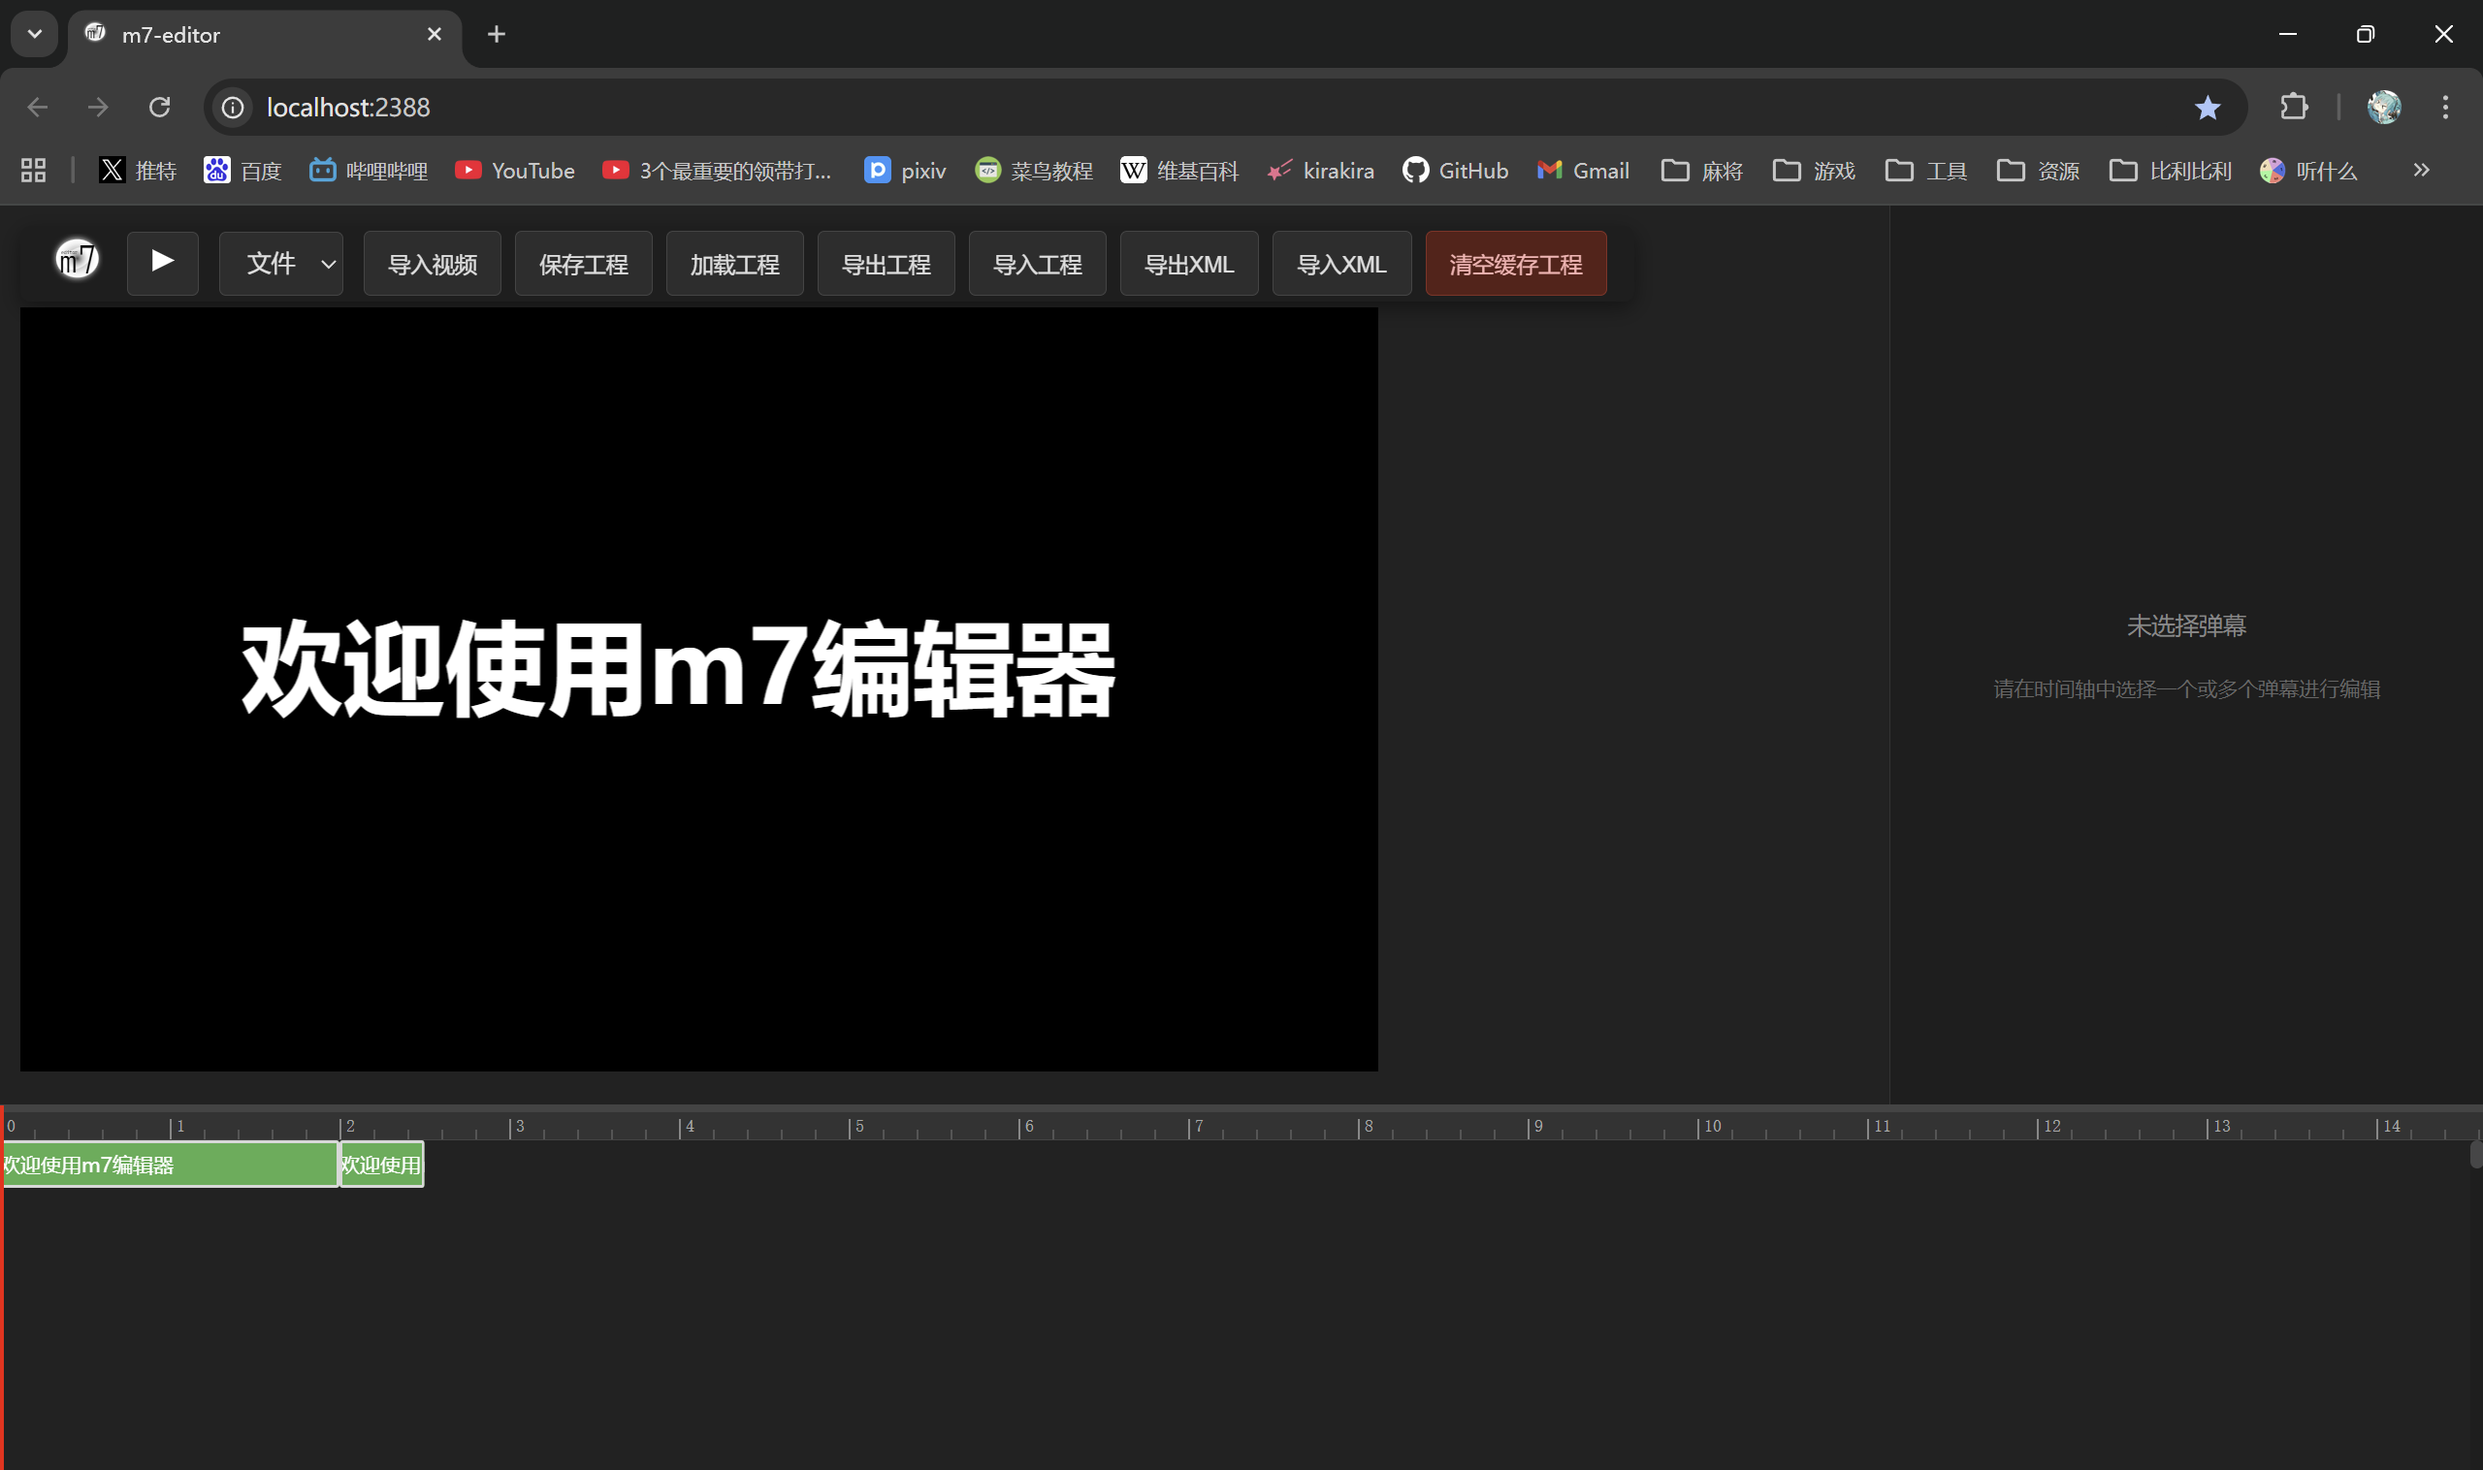
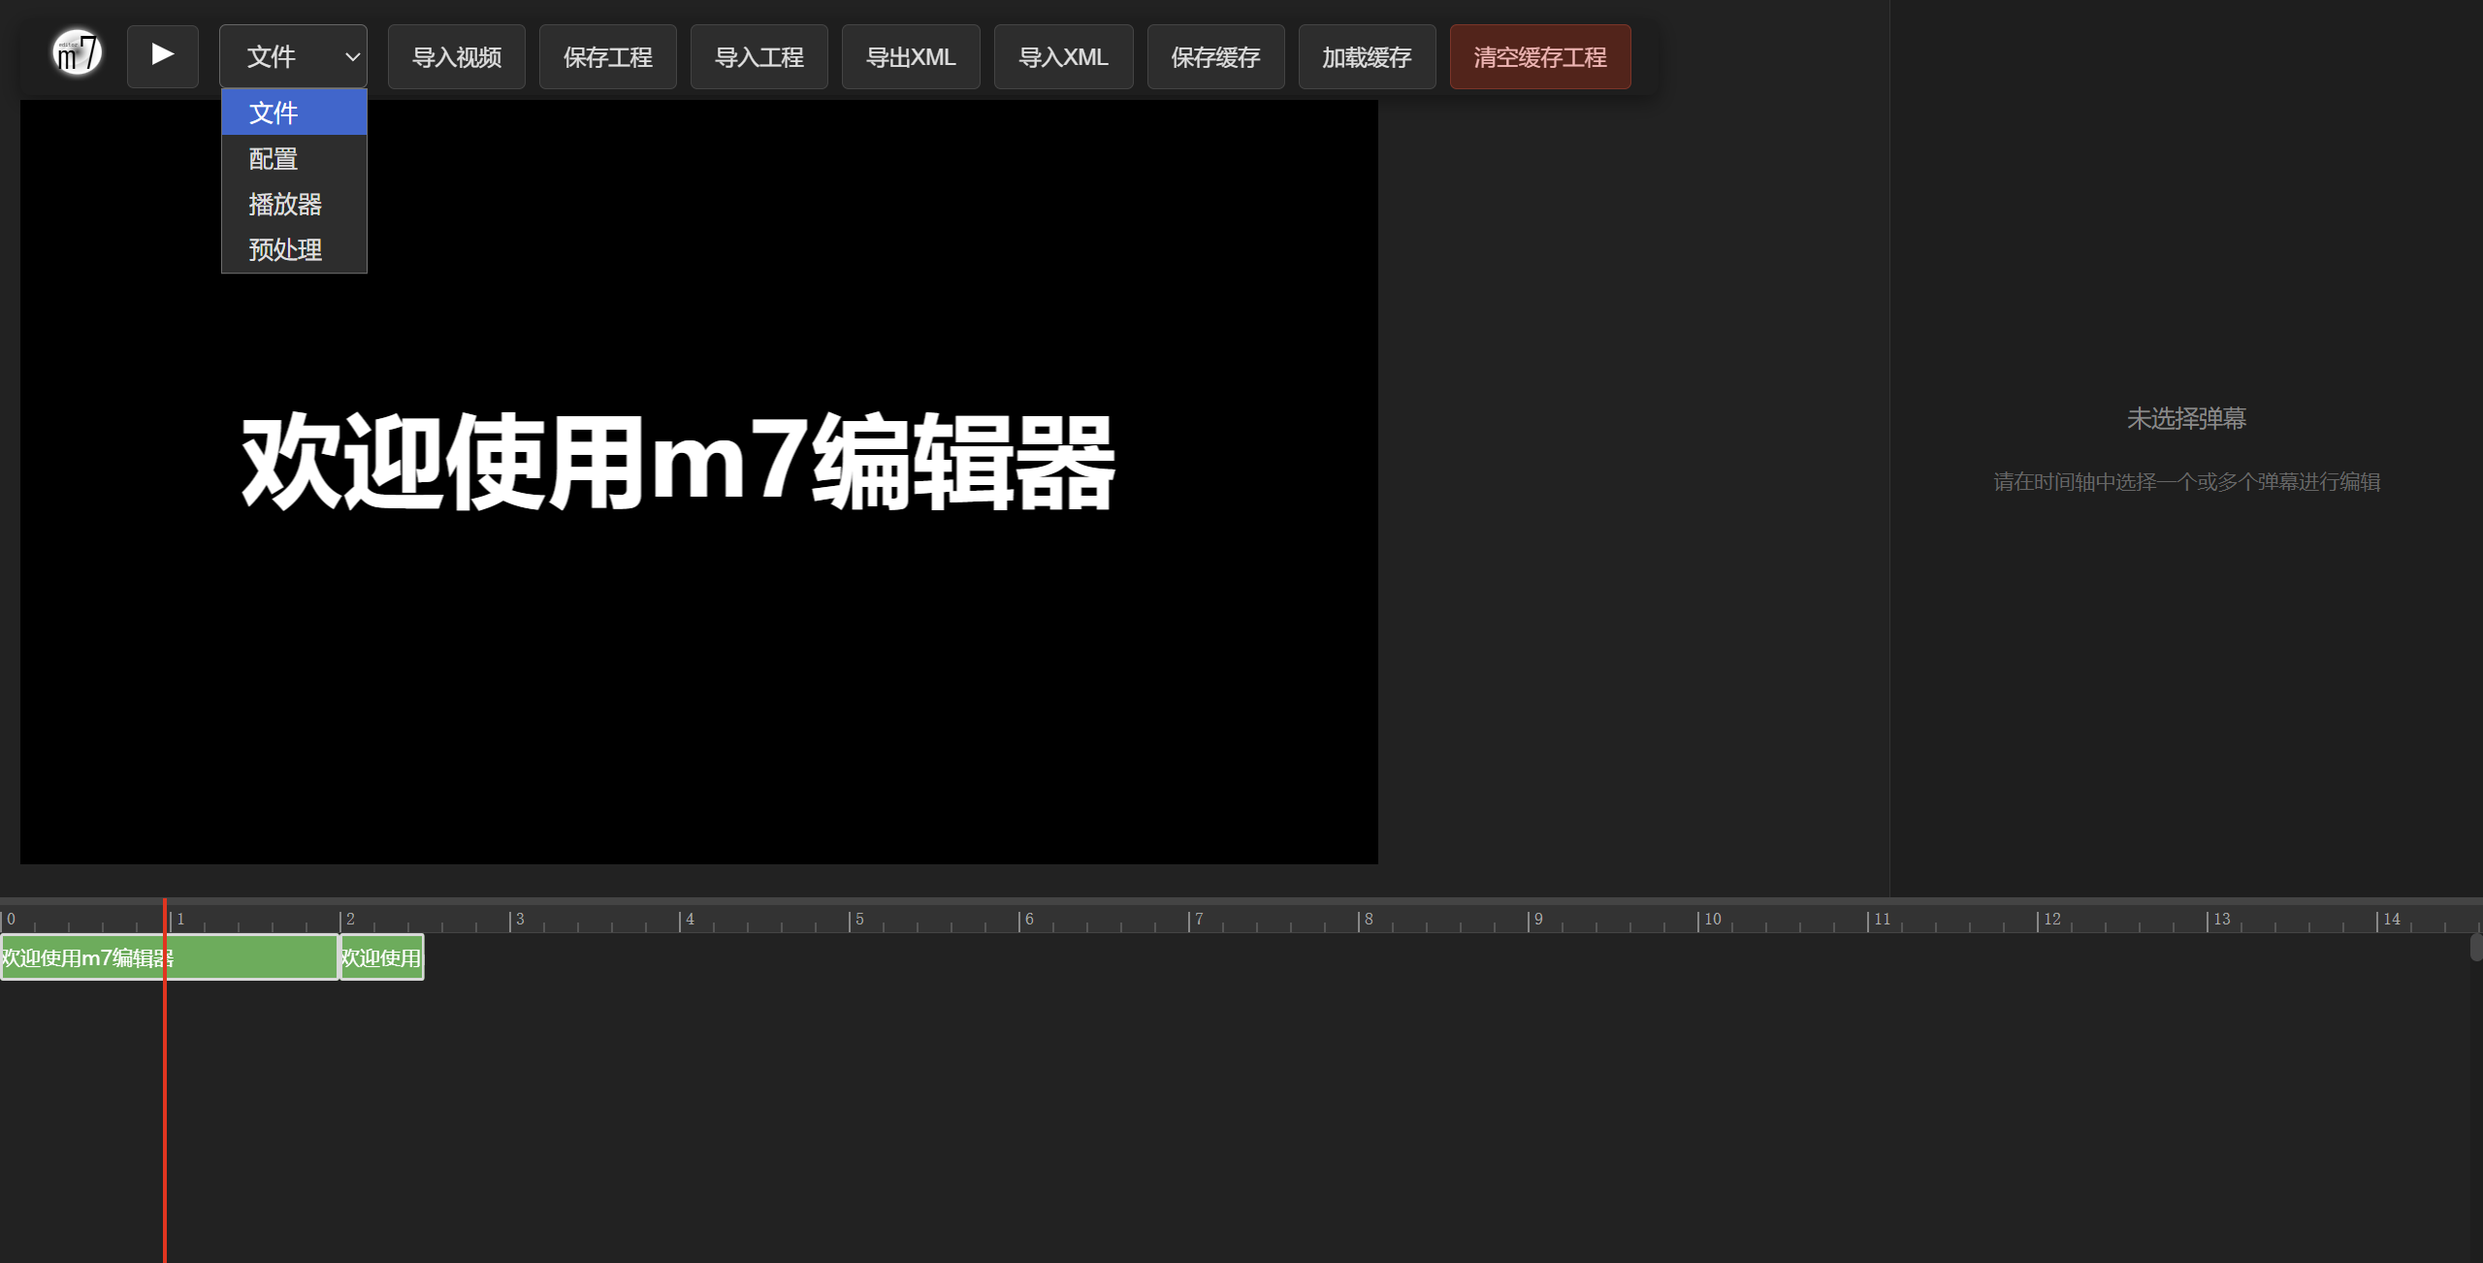
v0.3.0
改变选框逻辑

diff --git a/src/components/timeline/timeline.vue b/src/components/timeline/timeline.vue
@@ -62,14 +62,9 @@
       
       <!-- 框选矩形 -->
       <div
-        v-if="selectionBox.visible"
+        v-if="selectionBoxStyle"
         class="selection-box"
-        :style="{
-          left: Math.min(selectionBox.startX, selectionBox.endX) + 'px',
-          top: Math.min(selectionBox.startY, selectionBox.endY) + 'px',
-          width: Math.abs(selectionBox.endX - selectionBox.startX) + 'px',
-          height: Math.abs(selectionBox.endY - selectionBox.startY) + 'px'
-        }"
+        :style="selectionBoxStyle"
       />
     </div>
   </div>
@@ -92,6 +87,7 @@ const offset = ref(0)
 const containerWidth = ref(800)
 
 const rowHeight = 30
+const RULER_HEIGHT = 20
 
 // ---------- 纵向虚拟滚动相关 ----------
 const tracksScrollTop = ref(0)
@@ -215,8 +211,8 @@ function handlePan(e: KeyboardEvent) {
     // Ctrl+Alt: 移动30000ms (30秒)
     panDistance = 30000
   } else if (isCtrl && !isAlt && (e.key === 'ArrowLeft' || e.key === 'ArrowRight')) {
-    // Ctrl: 移动10000ms
-    panDistance = 10000
+    // Ctrl: 移动视图的一半
+    panDistance = containerWidth.value * 0.5 / scale.value
   } else if (!isCtrl && !isAlt && (e.key === 'ArrowLeft' || e.key === 'ArrowRight')) {
     // 普通方向键: 移动播放头到最近的stepMs的整数倍位置（排除当前位置）
     const stepMs = store.playheadStepMs
@@ -564,17 +560,18 @@ function onMouseDown(e: MouseEvent) {
   if (isCtrlPressed && !isOnBlock && !isOnHandle) {
     // 进入框选模式
     isBoxSelectingMode.value = true
-    const rect = (e.currentTarget as HTMLElement).getBoundingClientRect()
-    const tracksElement = tracksRef.value
-    if (!tracksElement) return
-    const scrollTop = tracksElement.scrollTop
-    
+    lastAutoScrollAt = 0
+    const anchorTime = getTimeFromClientX(e.clientX)
+    const anchorLayer = getLayerFromClientY(e.clientY)
+
     selectionBox.value = {
       visible: true,
-      startX: e.clientX - rect.left,
-      startY: e.clientY - rect.top - 20 + scrollTop, // 考虑ruler高度(20px)和scrollTop
-      endX: e.clientX - rect.left,
-      endY: e.clientY - rect.top - 20 + scrollTop
+      anchorTime,
+      anchorLayer,
+      anchorClientX: e.clientX,
+      anchorClientY: e.clientY,
+      pointerClientX: e.clientX,
+      pointerClientY: e.clientY
     }
     return
   }
@@ -660,7 +657,7 @@ function animateOffsetTo(targetOffset: number) {
 }
 
 function maybeAutoScrollDuringDrag(e: MouseEvent) {
-  if (!dragMode.value || !timelineRef.value || !tracksRef.value) {
+  if ((!dragMode.value && !isBoxSelectingMode.value) || !timelineRef.value || !tracksRef.value) {
     return
   }
 
@@ -737,8 +734,8 @@ function onBlockMouseDown(e: MouseEvent, d: any) {
     dragOffsetX.value = e.clientX - timelineRect.left - activeStartTimeX
     dragOffsetY.value = e.clientY - timelineRect.top
     
-    // dragStartLayer应该考虑ruler高度(20px)和scrollTop
-    dragStartLayer.value = Math.floor((e.clientY - timelineRect.top - 20 + scrollTop) / rowHeight)
+    // dragStartLayer应该考虑ruler高度和scrollTop
+    dragStartLayer.value = Math.floor((e.clientY - timelineRect.top - RULER_HEIGHT + scrollTop) / rowHeight)
 
     window.addEventListener('mousemove', onGlobalMouseMove)
     window.addEventListener('mouseup', onGlobalMouseUp)
@@ -804,21 +801,91 @@ const dragStartLayer = ref(0)
 // 框选相关
 interface SelectionBox {
   visible: boolean
-  startX: number
-  startY: number
-  endX: number
-  endY: number
+  anchorTime: number
+  anchorLayer: number
+  anchorClientX: number
+  anchorClientY: number
+  pointerClientX: number
+  pointerClientY: number
 }
 
 const selectionBox = ref<SelectionBox>({
   visible: false,
-  startX: 0,
-  startY: 0,
-  endX: 0,
-  endY: 0
+  anchorTime: 0,
+  anchorLayer: 0,
+  anchorClientX: 0,
+  anchorClientY: 0,
+  pointerClientX: 0,
+  pointerClientY: 0
 })
 
+// 框选相关
 const isBoxSelectingMode = ref(false)
+
+function clampLayer(layer: number) {
+  return Math.max(0, Math.min(store.maxLayers - 1, layer))
+}
+
+function getTimeFromClientX(clientX: number) {
+  const rect = timelineRef.value?.getBoundingClientRect()
+  if (!rect) {
+    return 0
+  }
+
+  const x = clientX - rect.left
+  return roundTime(Math.max(0, x / scale.value + offset.value))
+}
+
+function getLayerFromClientY(clientY: number) {
+  const tracksRect = tracksRef.value?.getBoundingClientRect()
+  if (!tracksRect) {
+    return 0
+  }
+
+  const y = clientY - tracksRect.top + tracksScrollTop.value
+  return clampLayer(Math.floor(y / rowHeight))
+}
+
+const selectionRange = computed(() => {
+  if (!selectionBox.value.visible) {
+    return null
+  }
+
+  const pointerTime = getTimeFromClientX(selectionBox.value.pointerClientX)
+  const pointerLayer = getLayerFromClientY(selectionBox.value.pointerClientY)
+
+  return {
+    minTime: Math.min(selectionBox.value.anchorTime, pointerTime),
+    maxTime: Math.max(selectionBox.value.anchorTime, pointerTime),
+    minLayer: Math.min(selectionBox.value.anchorLayer, pointerLayer),
+    maxLayer: Math.max(selectionBox.value.anchorLayer, pointerLayer)
+  }
+})
+
+const selectionBoxStyle = computed(() => {
+  if (!selectionRange.value) {
+    return null
+  }
+
+  return {
+    left: (selectionRange.value.minTime - offset.value) * scale.value + 'px',
+    top: selectionRange.value.minLayer * rowHeight + 'px',
+    width: (selectionRange.value.maxTime - selectionRange.value.minTime) * scale.value + 'px',
+    height: (selectionRange.value.maxLayer - selectionRange.value.minLayer + 1) * rowHeight + 'px'
+  }
+})
+
+function resetSelectionBox() {
+  selectionBox.value = {
+    visible: false,
+    anchorTime: 0,
+    anchorLayer: 0,
+    anchorClientX: 0,
+    anchorClientY: 0,
+    pointerClientX: 0,
+    pointerClientY: 0
+  }
+}
 
 function recordDragInitialStates() {
   dragInitialStates.value.clear()
@@ -952,13 +1019,9 @@ function snapMoveStartTime(startTime: number, duration: number) {
 function onMouseMove(e: MouseEvent) {
   // 框选模式
   if (isBoxSelectingMode.value) {
-    const rect = timelineRef.value?.getBoundingClientRect()
-    const tracksElement = tracksRef.value
-    if (!rect || !tracksElement) return
-    const scrollTop = tracksElement.scrollTop
-    
-    selectionBox.value.endX = e.clientX - rect.left
-    selectionBox.value.endY = e.clientY - rect.top - 20 + scrollTop // 考虑ruler高度(20px)和scrollTop
+    selectionBox.value.pointerClientX = e.clientX
+    selectionBox.value.pointerClientY = e.clientY
+    maybeAutoScrollDuringDrag(e)
     return
   }
   
@@ -979,10 +1042,10 @@ function onMouseMove(e: MouseEvent) {
   const timelineRect = currentTimeline.getBoundingClientRect()
   
   const x = e.clientX - timelineRect.left
-  const y = e.clientY - timelineRect.top - 20 + scrollTop // -20是ruler的高度
+  const y = e.clientY - timelineRect.top - RULER_HEIGHT + scrollTop // ruler高度补偿
 
   const rawTime = x / scale.value + offset.value
-  const layer = Math.max(0, Math.min(store.maxLayers - 1, Math.floor(y / rowHeight)))
+  const layer = clampLayer(Math.floor(y / rowHeight))
 
   if (dragMode.value === 'move') {
     // 批量拖动：基于activeBlockId计算delta，然后应用到所有选中弹幕
@@ -1074,33 +1137,29 @@ function onMouseUp() {
   // 框选模式处理
   if (isBoxSelectingMode.value) {
     isBoxSelectingMode.value = false
-    
-    // 计算选择框的边界
-    const minX = Math.min(selectionBox.value.startX, selectionBox.value.endX)
-    const maxX = Math.max(selectionBox.value.startX, selectionBox.value.endX)
-    const minY = Math.min(selectionBox.value.startY, selectionBox.value.endY)
-    const maxY = Math.max(selectionBox.value.startY, selectionBox.value.endY)
+    const range = selectionRange.value
     
     // 找出被选中的弹幕
     const selectedInBox: string[] = []
-    store.danmakus.forEach((d: any) => {
-      const blockLeft = (d.startTime - offset.value) * scale.value
-      const blockRight = blockLeft + d.animation.duration * scale.value
-      const blockTop = d.layer * rowHeight + 20 // +20是因为ruler的高度
-      const blockBottom = blockTop + 28
-      
-      // 检查弹幕块是否与选择框相交
-      if (blockRight > minX && blockLeft < maxX && blockBottom > minY && blockTop < maxY) {
-        selectedInBox.push(d.id)
-      }
-    })
+    if (range) {
+      store.danmakus.forEach((d: any) => {
+        const blockStart = d.startTime
+        const blockEnd = d.startTime + d.animation.duration
+        const intersectsTime = blockEnd > range.minTime && blockStart < range.maxTime
+        const intersectsLayer = d.layer >= range.minLayer && d.layer <= range.maxLayer
+
+        if (intersectsTime && intersectsLayer) {
+          selectedInBox.push(d.id)
+        }
+      })
+    }
     
     // 更新选中状态（框选会替换之前的选择）
     if (selectedInBox.length > 0) {
       store.selectedIds = selectedInBox
     }
     
-    selectionBox.value.visible = false
+    resetSelectionBox()
     return
   }
   

diff --git a/src/store/editor.ts b/src/store/editor.ts
@@ -665,7 +665,7 @@ export const useEditorStore = defineStore('editor', {
     exportProject() {
       return {
         meta: {
-          version: '0.2.0',
+          version: '0.3.0',
           createdAt: Date.now()
         },
         timeline: {

diff --git a/README.md b/README.md
@@ -74,19 +74,19 @@ npm run preview
 ### 文件：
   - 导入视频
   - 播放 / 暂停
-  - 保存工程到本地缓存
-  - 从本地缓存加载工程
   - 导出工程 JSON
   - 导入工程 JSON
   - 导出 XML
   - 导入 XML
+  - 保存工程到本地缓存
+  - 从本地缓存加载工程
   - 清空缓存工程
 ### 配置：
 | 功能 | 默认值 |
 | --- | --- |
 | 配置播放头步长 | 16.666667（/60） |
 | 配置新建弹幕的默认生存时间 | 1000 |
-| 显示`layer`层数 | 100 |
+| `layer`层数 | 100 |
 ### 播放器：
 | 功能 | 默认值 |
 | --- | --- |
@@ -118,7 +118,7 @@ npm run preview
 - 延迟
 - 缓动方式
 
-其中大部分数值输入框支持直接输入运算表达式且支持批量操作，例如：
+所有**数值**输入框均支持直接输入运算表达式且支持批量操作，例如：
 
 - `1000`
 - `+100`
@@ -180,7 +180,7 @@ npm run preview
 | `ArrowRight` | 按当前播放头步长向右移动播放头 |
 | `ArrowUp` | 将选中弹幕layer-1（向上移动）|
 | `ArrowDown` | 将选中弹幕layer+1（向下移动） |
-| `Ctrl + ArrowLeft` | 向左平移时间轴 10 秒，并同步移动播放头 |
+| `Ctrl + ArrowLeft` | 向左平移时间轴一半视图，并同步移动播放头 |
 | `Ctrl + ArrowRight` | 向右平移时间轴 10 秒，并同步移动播放头 |
 | `Ctrl + Alt + ArrowLeft` | 向左平移时间轴 30 秒，并同步移动播放头 |
 | `Ctrl + Alt + ArrowRight` | 向右平移时间轴 30 秒，并同步移动播放头 |
@@ -215,6 +215,8 @@ npm run preview
 - 导入时若坐标位于 `0 <= value < 1`，会按当前 `screen width/height` 视为比例坐标并转成像素
 - 导入时会额外执行时间冲突避让，避免大量弹幕挤在同一 layer
 - 如果单条 XML 弹幕解析失败，会跳过该条并继续导入其他弹幕
+- 导出时若颜色值为0则修正至1，保证在b站不会显示错误
+- 导出时若选择按比例并检测到有弹幕坐标超出显示范围，则强制修改为0.999，并弹窗提示
 
 ### 粘贴弹幕
 
@@ -228,7 +230,7 @@ npm run preview
 - 从 `danmakus` 数组中截取出来的若干对象片段
 - 带尾逗号的 JSON 片段
 
-粘贴后仍会自动执行：
+粘贴后会自动执行：
 
 - 新 ID 分配
 - 播放头对齐的时间偏移
@@ -303,7 +305,7 @@ npm run preview
 - 视频导入基于浏览器本地文件能力，刷新页面后需要重新选择视频文件
 - 本地缓存工程依赖浏览器 `localStorage`
 - XML 导入可能出现问题，请不要高估解析工具
-- 弹幕数量过多会很卡很卡（待优化）
+- 弹幕密度建议不要超过70个每秒
 - 弹幕渲染依旧不完全还原b站（望大佬相助）
 - XML 比例坐标导入导出依赖当前播放器设置中的 `screen width/height` **若要使用请提前修改宽高！否则转为坐标时会与预期不符！**
 
